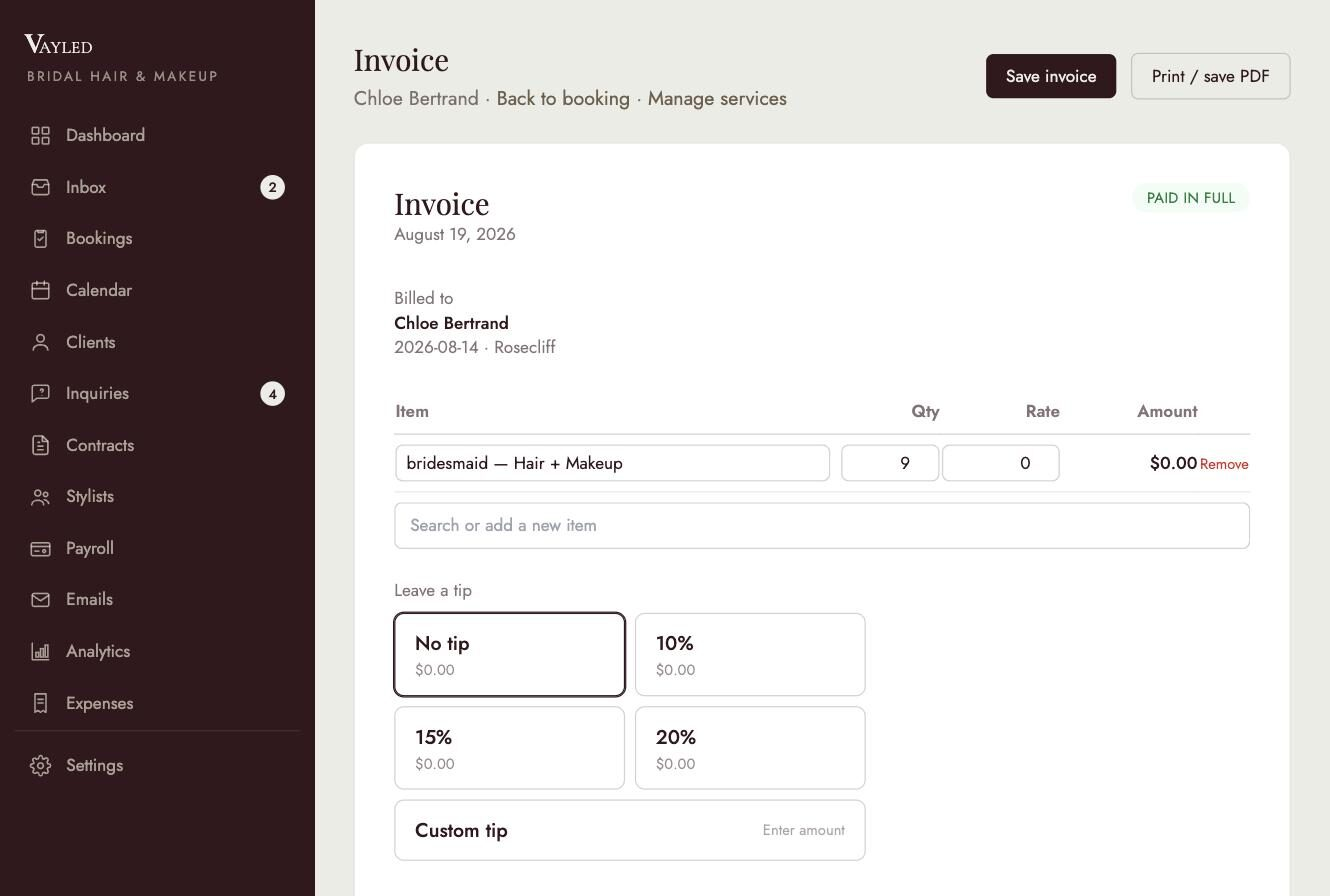
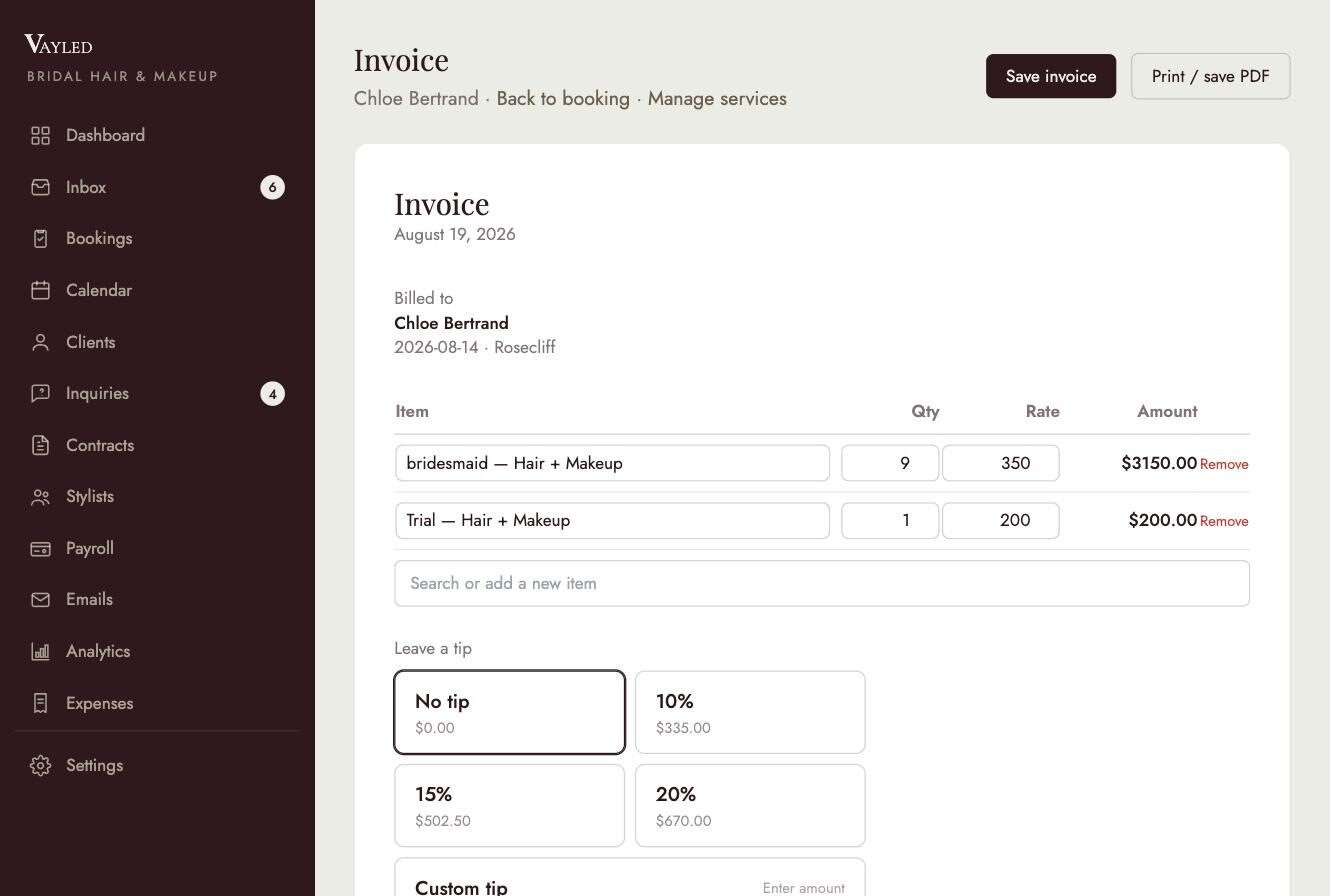
Re-capture invoicing marketing screenshot with real pricing

diff --git a/CHANGELOG.md b/CHANGELOG.md
@@ -2,6 +2,10 @@
 
 Running log of changes requested while testing the app. Newest first.
 
+## 2026-08-19 (40)
+
+- **Re-captured invoicing marketing screenshot** with real line-item pricing ($3,150 bridesmaid hair + makeup, $200 trial) instead of the earlier $0 placeholder state.
+
 ## 2026-08-19 (39)
 
 - **Re-captured calendar marketing screenshot** with current stylist assignments, no mouse cursor.
